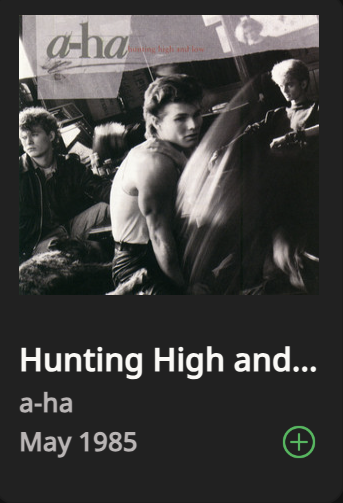
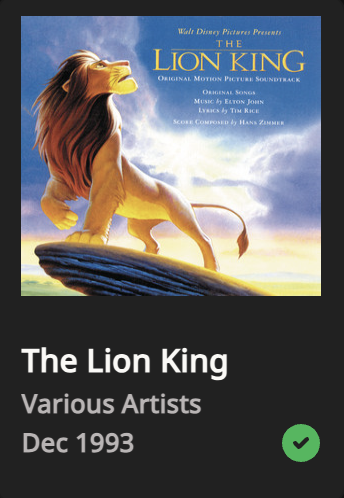
change card right and rules

diff --git a/src/api.js b/src/api.js
@@ -106,6 +106,7 @@ const getRandomAlbum = async ({
   randomYear,
   useBestOfYearPlaylist,
   cardsUsed,
+  retrySong = false,
 }) => {
   const playlistToUse = useBestOfYearPlaylist
     ? bestSongPlaylist
@@ -132,12 +133,16 @@ const getRandomAlbum = async ({
   });
   if (!addedSong.foundSong) {
     console.log("scotttest hits this error");
+    console.log("scotttest addedSong.foundSong", addedSong);
     addedSong = await getRandomAlbum({
       bestSongPlaylist: "4B0QzVzeHi0o637HoP3r6e",
       useBestOfYearPlaylist: false,
       cardsUsed,
       randomYear,
+      retrySong: true,
     });
+  } else if (retrySong) {
+    console.log("scotttest addedSong.foundSong Second", addedSong);
   }
   return addedSong;
 };
@@ -158,6 +163,7 @@ const newMovie = async ({ cardsUsed }) => {
     randomYear,
     useBestOfYearPlaylist: randomBoolean,
     cardsUsed,
+    retrySong: false,
     // albumIds,
   });
   return {

diff --git a/src/components/Card.jsx b/src/components/Card.jsx
@@ -1,6 +1,7 @@
 import React, { useState } from "react";
 import { Draggable } from "react-beautiful-dnd";
 import AlbumInformation from "./AlbumInformation";
+import checkmark from "../images/checkmark.svg";
 
 function Card(props) {
   const [albumModal, setAlbumModal] = useState(false);
@@ -48,11 +49,7 @@ function Card(props) {
             <div className="cardInfo cardBottomRow">
               <p className="cardInfo cardDate">{months[month] + " " + year}</p>
               {!props.startingCard && props.right && (
-                <img
-                  className="cardPoint"
-                  src={require("../images/annaPlusSign.png")}
-                  alt="heart"
-                />
+                <img className="cardPoint" src={checkmark} alt="heart" />
               )}
             </div>
           </div>

diff --git a/src/index.css b/src/index.css
@@ -173,7 +173,7 @@ ul {
 }
 
 .hoveredWrong {
-  background-color: #d12727 !important;
+  background-color: #d13939 !important;
 }
 
 .cardRight {
